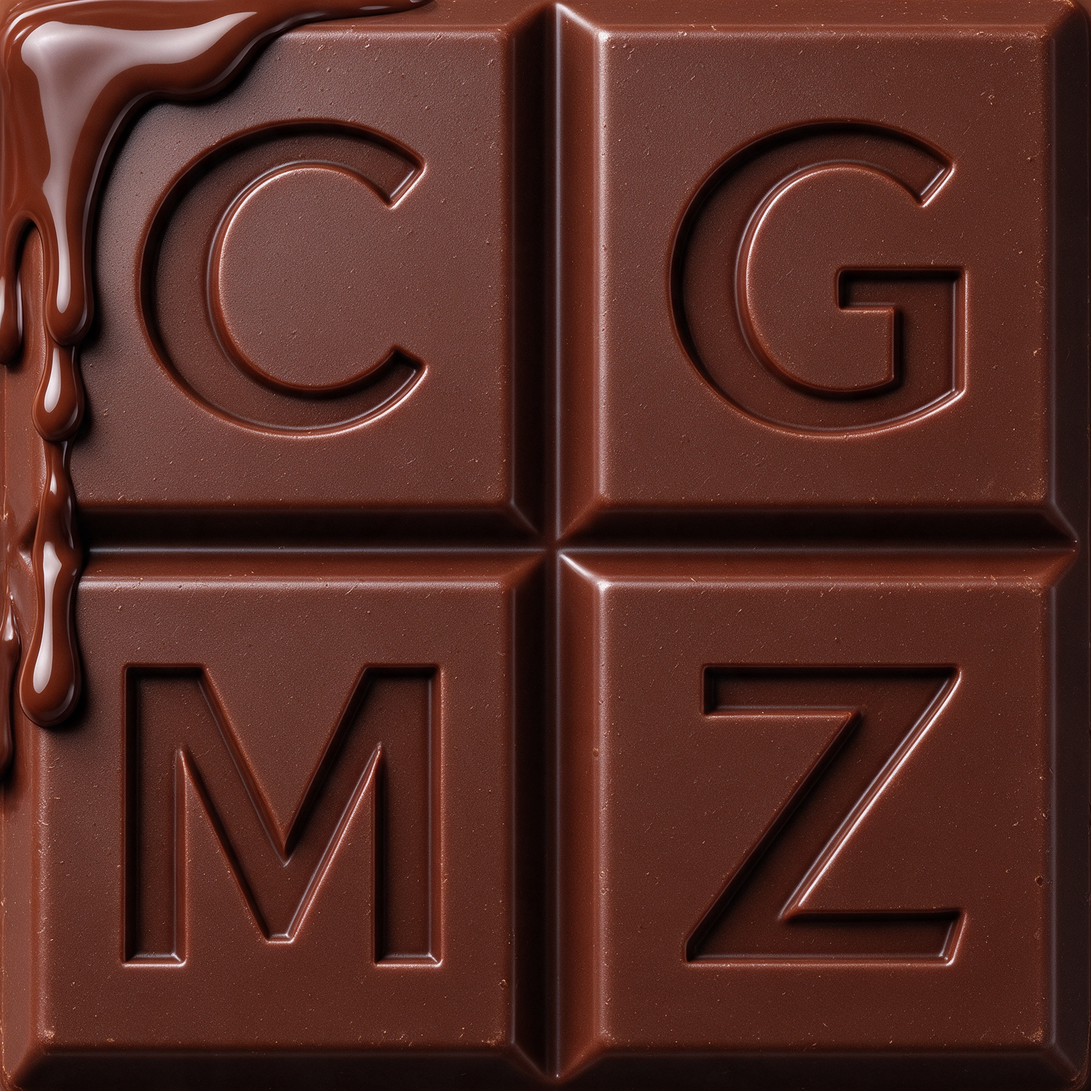
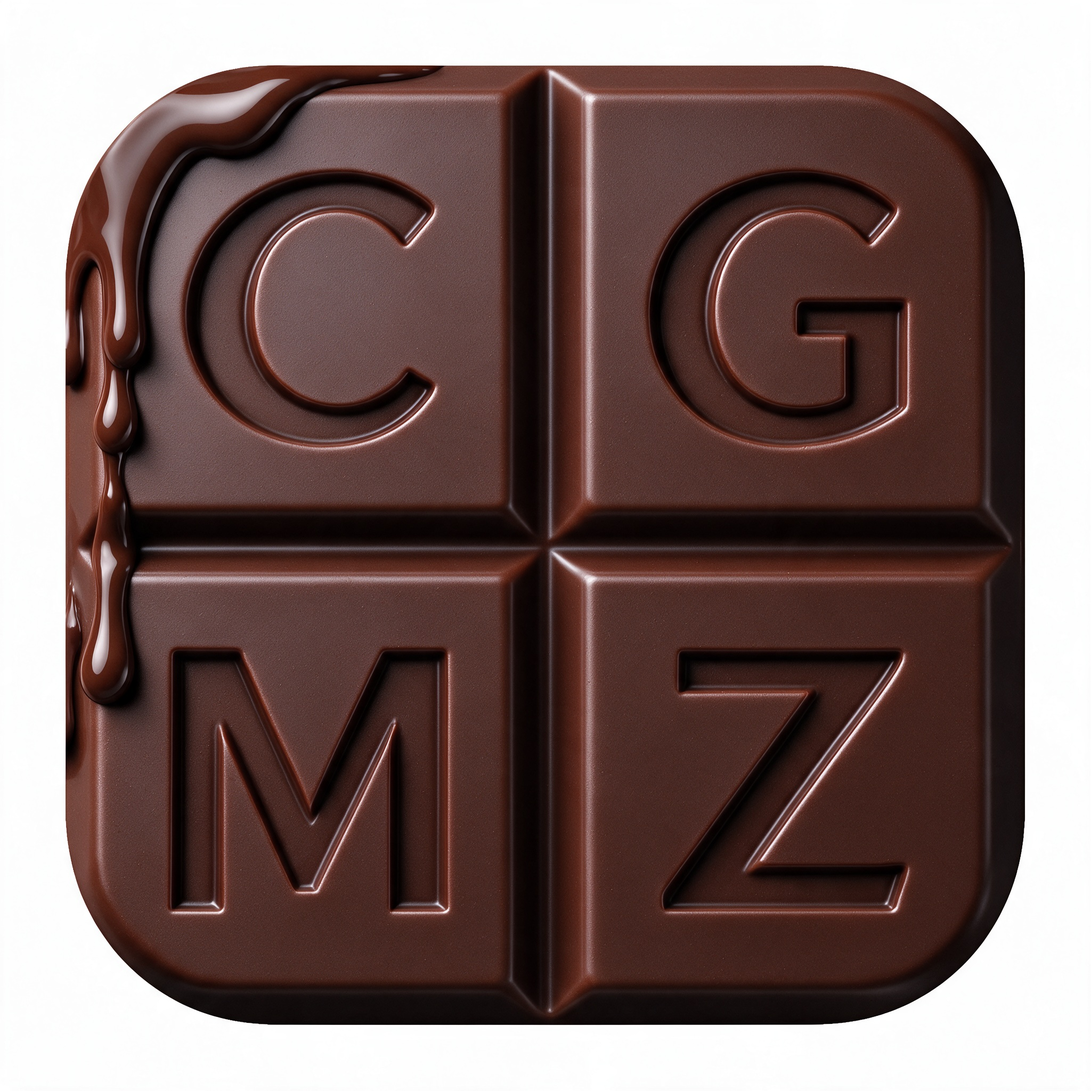
feat(图标): 按 macOS 规范重绘——模型画圆角与倒角，脚本只负责抠形对齐
用户反馈「阴影太蠢了，不如彻底重绘」，并给了办法：喂一张标准 macOS 图标形状做参考图。

- 新增 `--trim`：源图按 macOS 图标规范出图（正方形画布、圆角方形本体、外轮廓一圈
  内收倒角、本体外纯白无投影），脚本按「比白底暗」的判据抠出本体、对齐到 1024。
  程序化倒角（apply_chamfer）在这条路上不再启用——它的假倒角会和模型画的真倒角打架。
- 新增 `squircle_mask()`：macOS 图标本体是超椭圆（|x|^n+|y|^n=1，n≈5），不是圆角矩形。
  按参数方程采样成多边形 + 4x 超采样，四角才饱满连续。
- `trim_to_body()` 去白边：白底出图的边缘常有 1~3 px 近白描边和淡投影，向内收到不再
  发白为止；取**较小**的一条边做正方形（宁可内收几像素，也不把白底带进来）。
- 出图用两张参考图：图1 = 上一版图标（材质与内容），图2 = 程序生成的标准形状
  （圆角方形 + 内收倒角 + 左上光），实测模型把圆角半径画到了 0.229（目标 0.2237）。

实测：边缘白像素 0%；128/64 档字母与蜂蜜滴可辨，32/16 档两版仍可区分。

diff --git a/tools/icon_from_image.py b/tools/icon_from_image.py
@@ -166,8 +166,67 @@ def render_small(n: int) -> Image.Image:
         cr = max(1.2, cell * 0.23)
         cx = cy = n / 2
         d.ellipse([cx - cr, cy - cr, cx + cr, cy + cr], fill=amber)
-    im.putalpha(rounded_mask(n, ss=8))
+    im.putalpha(squircle_mask(n, ss=8))
     return im
+
+
+def squircle_mask(size: int, ss: int = 4, exponent: float = 5.0, inset: float = 0.0) -> Image.Image:
+    """macOS 图标本体形状：超椭圆（squircle），不是普通的圆角矩形。
+
+    Apple 的图标轮廓是连续曲率的超椭圆，|x|^n + |y|^n = 1（n≈5）；用
+    rounded_rectangle 画出来四角会显得「方」一点，正是「圆角不像 macOS」的来源。
+    这里按参数方程采样成多边形，再在 ss 倍画布上填充，缩回来即抗锯齿。
+    """
+    import math
+    big = size * ss
+    a = big / 2.0 * (1.0 - inset)
+    pts = []
+    steps = 2048
+    for i in range(steps):
+        t = 2.0 * math.pi * i / steps
+        ct, st = math.cos(t), math.sin(t)
+        x = math.copysign(abs(ct) ** (2.0 / exponent), ct)
+        y = math.copysign(abs(st) ** (2.0 / exponent), st)
+        pts.append((big / 2.0 + x * a, big / 2.0 + y * a))
+    m = Image.new("L", (big, big), 0)
+    ImageDraw.Draw(m).polygon(pts, fill=255)
+    return m.resize((size, size), Image.LANCZOS)
+
+
+def trim_to_body(im: Image.Image, size: int) -> Image.Image:
+    """把「画在白底上、自带圆角」的图标裁到本体轮廓并缩放到 size。
+
+    用途：让出图模型按 macOS 图标规范自己把圆角和倒角画进图里（--trim），
+    我们只负责把本体抠出来对齐到 1024 —— 不再程序化加倒角，避免和模型的画法打架。
+    判据：明显比白底暗的像素 = 本体；投影很淡，阈值取 200 就能避开。
+    """
+    gray = im.convert("L")
+    mask = gray.point(lambda v: 255 if v < 200 else 0)
+    box = mask.getbbox()
+    if not box:
+        return im.resize((size, size), Image.LANCZOS)
+    x0, y0, x1, y1 = box
+    # 白底图上，括号边缘常常还有 1~3 px 接近纯白的描边/残影：向内收到不再发白为止，
+    # 否则贴好遮罩后会出现一圈白边
+    px = gray.load()
+    def ring_mean(x0, y0, x1, y1):
+        vals = []
+        for x in range(x0, x1, max(1, (x1 - x0) // 64)):
+            vals += [px[x, y0], px[x, y1 - 1]]
+        for y in range(y0, y1, max(1, (y1 - y0) // 64)):
+            vals += [px[x0, y], px[x1 - 1, y]]
+        return sum(vals) / max(1, len(vals))
+    inset = 0
+    while inset < 40 and x1 - x0 > 32 and y1 - y0 > 32 and ring_mean(x0, y0, x1, y1) > 215:
+        x0 += 1; y0 += 1; x1 -= 1; y1 -= 1; inset += 1
+    # 取**较小**的那条边做正方形：宁可往里收几像素，也不要把白底带进来
+    side = min(x1 - x0, y1 - y0)
+    cx, cy = (x0 + x1) / 2.0, (y0 + y1) / 2.0
+    W, H = im.size
+    left = min(max(cx - side / 2.0, 0), W - side)
+    top = min(max(cy - side / 2.0, 0), H - side)
+    return im.crop((int(round(left)), int(round(top)),
+                    int(round(left + side)), int(round(top + side)))).resize((size, size), Image.LANCZOS)
 
 
 def main() -> int:
@@ -179,6 +238,7 @@ def main() -> int:
     out_dir = sys.argv[2] if len(sys.argv) > 2 and not sys.argv[2].startswith("--") else "build/icon"
     zoom = 0.86          # 裁掉多少边缘：越小主体越大、留白越少（--crop 给了就不用它）
     name = "Dockolate"   # icns / iconset 基名
+    TRIM = False         # --trim：图里已经自带圆角+倒角，只抠本体对齐
     crop = None          # --crop=L,T,R,B（百分比），直接框住巧克力板、顶满图标
     for a in sys.argv[1:]:
         if a.startswith("--zoom="):
@@ -187,6 +247,8 @@ def main() -> int:
             name = a.split("=", 1)[1]
         elif a.startswith("--variant="):
             VARIANT = a.split("=", 1)[1]
+        elif a == "--trim":
+            TRIM = True
         elif a.startswith("--crop="):
             crop = [float(v) / 100.0 for v in a.split("=", 1)[1].split(",")]
             if len(crop) != 4:
@@ -197,7 +259,9 @@ def main() -> int:
 
     im = Image.open(src).convert("RGBA")
     w, h = im.size
-    if crop is not None:
+    if TRIM:
+        im = trim_to_body(im, FINAL)
+    elif crop is not None:
         l, t, r, b = crop
         x0, y0, x1, y1 = l * w, t * h, r * w, b * h
         # 不是正方形就先扩成正方形（以框中心为准，不拉伸变形）
@@ -225,7 +289,7 @@ def main() -> int:
 
     # 柔和暗角：把四角压暗一点，让巧克力主体从同色背景里分离出来
     # （--crop 顶满画面时不再压角：四角已经是巧克力本体，压暗会脏）
-    if crop is None:
+    if crop is None and not TRIM:
         vig = Image.new("L", (FINAL, FINAL), 0)
         vd = ImageDraw.Draw(vig)
         vd.ellipse([-int(FINAL * 0.18), -int(FINAL * 0.18),
@@ -234,7 +298,7 @@ def main() -> int:
         dark = Image.new("RGBA", (FINAL, FINAL), (26, 14, 8, 255))
         im = Image.composite(im, Image.blend(im, dark, 0.42), vig)
 
-    mask = rounded_mask(FINAL)
+    mask = squircle_mask(FINAL)      # macOS 图标本体是超椭圆，不是圆角矩形
     im.putalpha(mask)
 
     # 顶满（--crop）时给边缘加一圈内收倒角：按 SDF 做法线光照（无 numpy 时退回老版）
